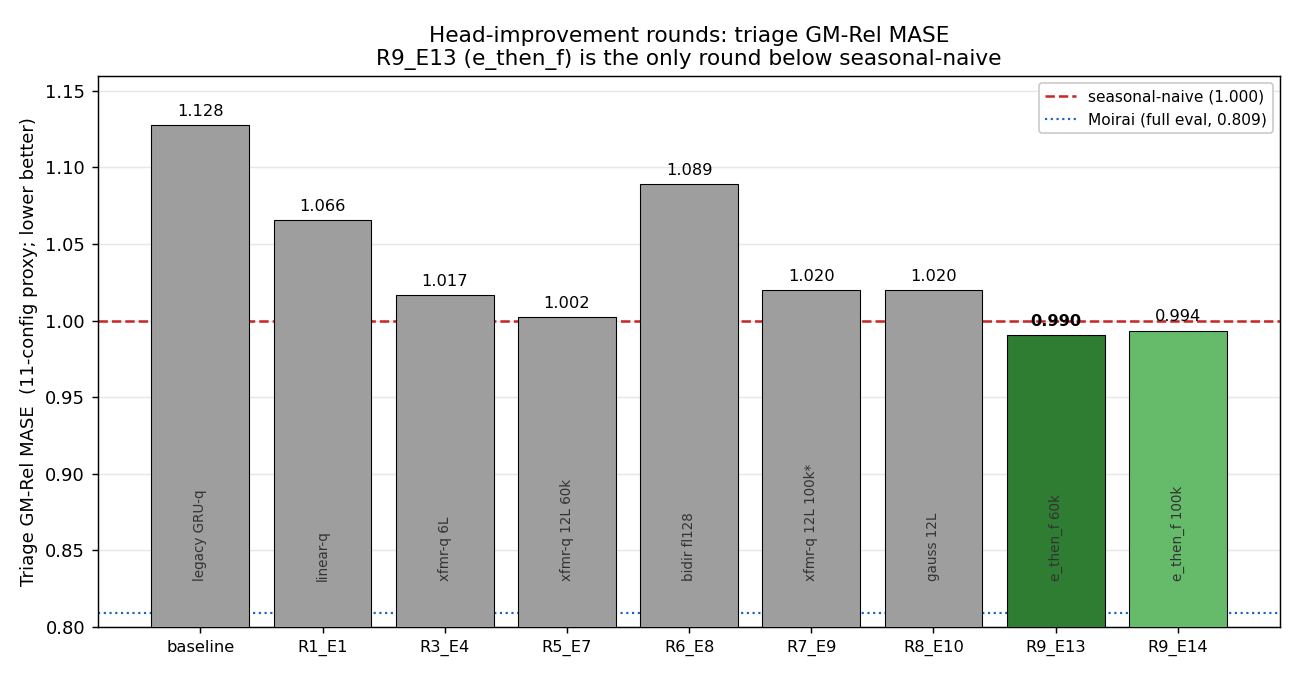
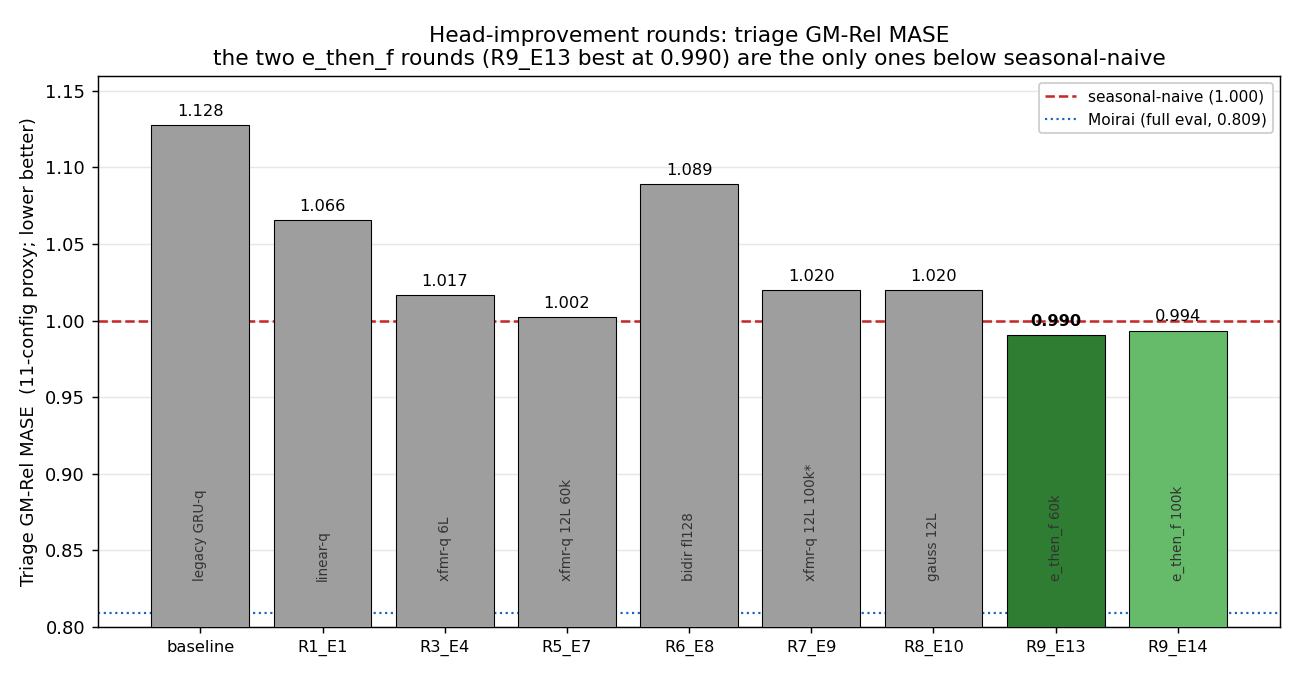
report(qhead): fix two review-flagged inconsistencies
- round_progression.png title said R9_E13 is "the only round below
  seasonal-naive"; R9_E14 (0.994) is also below — regenerated with a
  title naming both e_then_f rounds.
- Result section called the 12-layer winning head "matching the
  backbone's depth"; the backbone is 6 layers — reworded to "at the
  backbone's width, stacked to 12 layers, deeper than the 6-layer
  backbone".

Both surfaced by the independent reviewer's confirmation pass.

Changed region(s): [[0.1538, 0.0621, 0.8923, 0.1243]]

diff --git a/experiments/2026-05-05_exp_qhead_improvements/scripts/plot_round_progression.py b/experiments/2026-05-05_exp_qhead_improvements/scripts/plot_round_progression.py
@@ -96,7 +96,7 @@ ax.set_xticks(x)
 ax.set_xticklabels(labels, fontsize=9)
 ax.set_ylabel("Triage GM-Rel MASE  (11-config proxy; lower better)")
 ax.set_title("Head-improvement rounds: triage GM-Rel MASE\n"
-             "R9_E13 (e_then_f) is the only round below seasonal-naive")
+             "the two e_then_f rounds (R9_E13 best at 0.990) are the only ones below seasonal-naive")
 ax.set_ylim(0.80, 1.16)
 ax.legend(loc="upper right", fontsize=8.5, framealpha=0.95)
 ax.grid(axis="y", alpha=0.3, zorder=0)

diff --git a/experiments/2026-05-05_exp_qhead_improvements/exp_qhead_improvements.md b/experiments/2026-05-05_exp_qhead_improvements/exp_qhead_improvements.md
@@ -21,8 +21,9 @@ GIFT-Eval accuracy, and can it reach Moirai's 0.809?**
 ## Result
 
 Two head changes carry almost all of the gain. **(1)** Replace the
-legacy bidirectional GRU head with a *causal transformer* matching the
-backbone's depth and width (12 layers, H=384, nhead=6). **(2)** Match
+legacy bidirectional GRU head with a *causal transformer* at the
+backbone's width (H=384, nhead=6), stacked to 12 layers — deeper than the
+6-layer backbone. **(2)** Match
 the head's train-time input layout to what it sees at eval — feed it
 `[encoder-latents, forecaster-latents]` (`e_then_f`) under a leak-free
 causal mask instead of forecaster-latents only. Together these take
